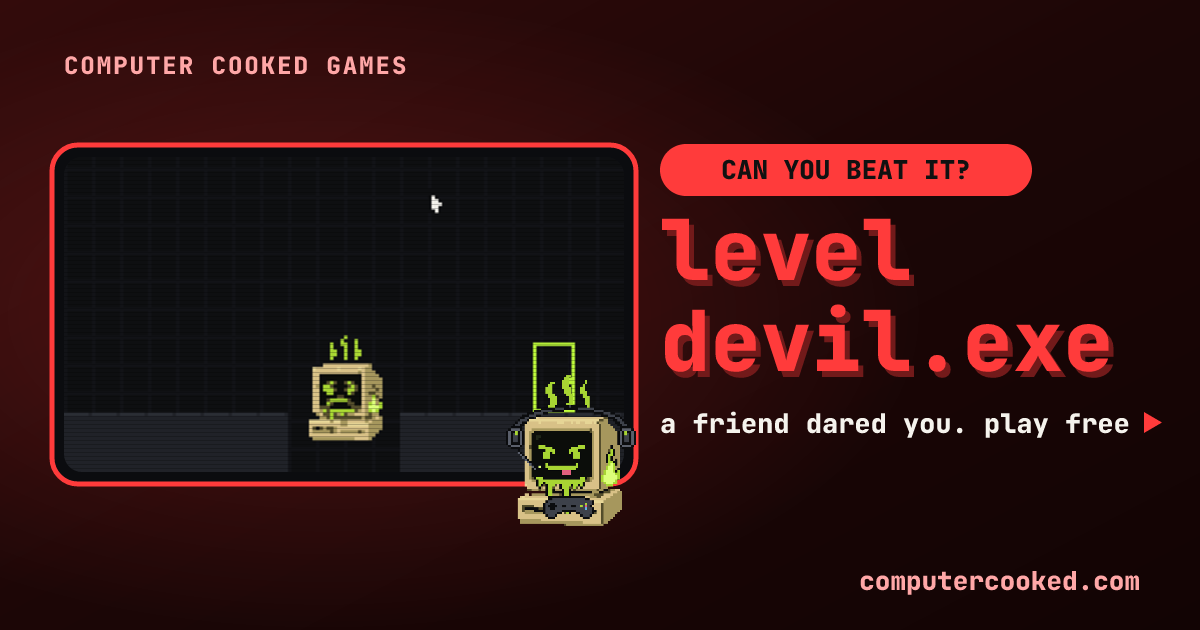
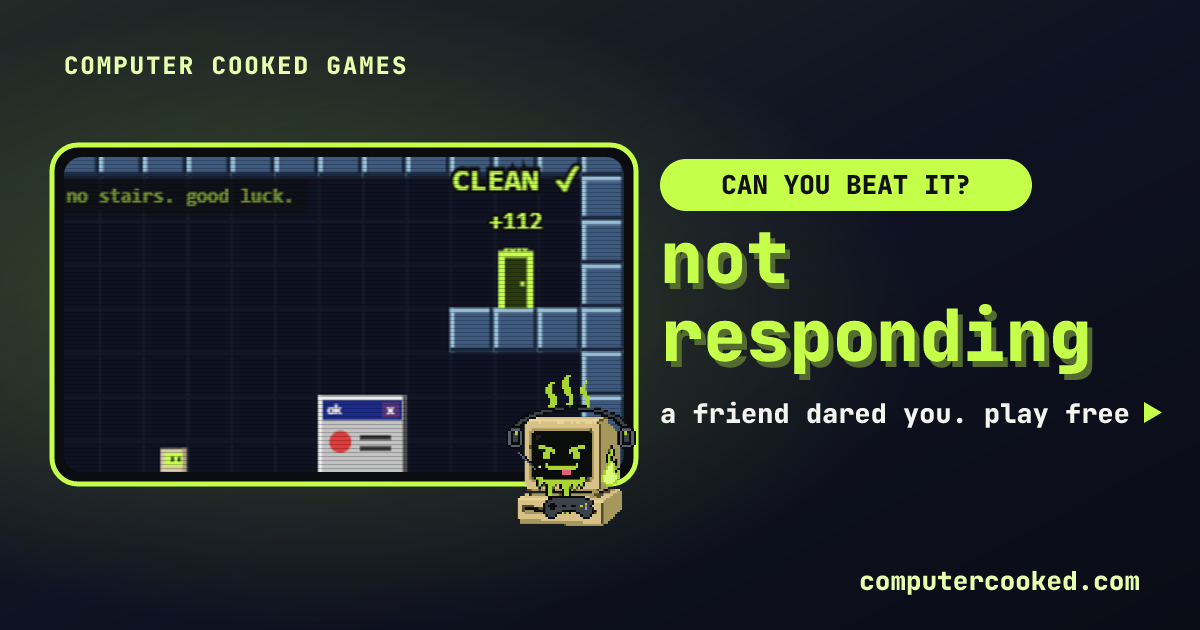
Round 5 batch 3: not responding (was level devil.exe) 2.5, elevator 1.6.1, ant farm 1.5.1, keyboard escape 1.7; rename on every page label, new cover, thumb and OG cards

diff --git a/games/level-devil-exe/index.html b/games/level-devil-exe/index.html
@@ -4,16 +4,16 @@
   <meta charset="utf-8">
   <meta name="viewport" content="width=device-width, initial-scale=1, viewport-fit=cover">
   <!-- Generated by scripts/add-game.ps1 from games/level-devil-exe/play/entry.json. Edit the template, not this file. -->
-  <title>level devil.exe — play free on Computer Cooked Games</title>
-  <meta name="description" content="level devil.exe: a troll platformer where the floor, the exit, the cursor and the taskbar all want you dead. 36 levels, a blue screen every death, infinite retries. free, plays in your browser and on your phone.">
+  <title>not responding — play free on Computer Cooked Games</title>
+  <meta name="description" content="not responding: a troll platformer that stopped responding: the floor, the exit, the cursor and the taskbar all want you dead. 36 levels, a blue screen every death, infinite retries. free, plays in your browser and on your phone.">
   <link rel="canonical" href="https://computercooked.com/games/level-devil-exe/">
   <meta name="theme-color" content="#101114">
   <meta name="color-scheme" content="dark">
 
   <meta property="og:type" content="website">
   <meta property="og:site_name" content="Computer Cooked">
-  <meta property="og:title" content="level devil.exe — Computer Cooked Games">
-  <meta property="og:description" content="a troll platformer where the floor, the exit, the cursor and the taskbar all want you dead. 36 levels, a blue screen every death, infinite retries.">
+  <meta property="og:title" content="not responding — Computer Cooked Games">
+  <meta property="og:description" content="a troll platformer that stopped responding: the floor, the exit, the cursor and the taskbar all want you dead. 36 levels, a blue screen every death, infinite retries.">
   <meta property="og:url" content="https://computercooked.com/games/level-devil-exe/">
   <meta property="og:image" content="https://computercooked.com/games/level-devil-exe/og.png?v=5">
   <meta property="og:image:width" content="1200">
@@ -25,8 +25,8 @@
   <meta property="og:video:height" content="180">
   <meta name="twitter:card" content="summary_large_image">
   <meta name="twitter:site" content="@computercooked">
-  <meta name="twitter:title" content="level devil.exe — Computer Cooked Games">
-  <meta name="twitter:description" content="a troll platformer where the floor, the exit, the cursor and the taskbar all want you dead. 36 levels, a blue screen every death, infinite retries.">
+  <meta name="twitter:title" content="not responding — Computer Cooked Games">
+  <meta name="twitter:description" content="a troll platformer that stopped responding: the floor, the exit, the cursor and the taskbar all want you dead. 36 levels, a blue screen every death, infinite retries.">
   <meta name="twitter:image" content="https://computercooked.com/games/level-devil-exe/og.png?v=5">
 
   <link rel="icon" href="/favicon.ico" sizes="48x48">
@@ -48,18 +48,18 @@
     <div class="ad-slot" data-slot="player-top" aria-hidden="true"></div>
 
     <div class="player-layout">
-      <section class="player" id="player" aria-label="level devil.exe game" data-title="level devil.exe" data-url="https://computercooked.com/games/level-devil-exe/" data-version="2.5">
+      <section class="player" id="player" aria-label="not responding game" data-title="not responding" data-url="https://computercooked.com/games/level-devil-exe/" data-version="2.5">
         <div class="player-stage">
           <div class="stage-boot" aria-hidden="true">
             <span class="boot-logo"></span>
-            <span class="boot-text">booting level devil.exe<span class="boot-dots"></span></span>
+            <span class="boot-text">booting not responding<span class="boot-dots"></span></span>
             <span class="boot-bar"><span></span></span>
           </div>
-          <iframe id="game-frame" data-src="/games/level-devil-exe/play/" title="level devil.exe" allow="fullscreen; autoplay" loading="eager"></iframe><script>/* start the game once the page itself is done (r19, phone speed): after the load event and an idle moment (3 s at most), or at once when the player is touched or a key is pressed, or when the visitor tapped "tap to play" on the hub (cc-autostart). Starting it right after the first paint put the game's download, startup and title animation inside the page load on phones */(function(f){var d=0;function go(){if(!d){d=1;if(!f.src)f.src=f.dataset.src}}try{if(sessionStorage.getItem("cc-autostart")){go();return}}catch(e){}var p=f.parentNode||document;p.addEventListener("pointerdown",go,{once:true,passive:true});addEventListener("keydown",go,{once:true});function idle(){(window.requestIdleCallback||function(c){setTimeout(c,300)})(go,{timeout:3000})}if(document.readyState==="complete")idle();else addEventListener("load",idle);setTimeout(go,8000)})(document.getElementById("game-frame"))</script>
+          <iframe id="game-frame" data-src="/games/level-devil-exe/play/" title="not responding" allow="fullscreen; autoplay" loading="eager"></iframe><script>/* start the game once the page itself is done (r19, phone speed): after the load event and an idle moment (3 s at most), or at once when the player is touched or a key is pressed, or when the visitor tapped "tap to play" on the hub (cc-autostart). Starting it right after the first paint put the game's download, startup and title animation inside the page load on phones */(function(f){var d=0;function go(){if(!d){d=1;if(!f.src)f.src=f.dataset.src}}try{if(sessionStorage.getItem("cc-autostart")){go();return}}catch(e){}var p=f.parentNode||document;p.addEventListener("pointerdown",go,{once:true,passive:true});addEventListener("keydown",go,{once:true});function idle(){(window.requestIdleCallback||function(c){setTimeout(c,300)})(go,{timeout:3000})}if(document.readyState==="complete")idle();else addEventListener("load",idle);setTimeout(go,8000)})(document.getElementById("game-frame"))</script>
         </div>
 
         <div class="player-bar">
-          <h1 class="player-title">level devil.exe</h1>
+          <h1 class="player-title">not responding</h1>
           <button class="tool" id="btn-restart" type="button" aria-label="restart">
             <svg viewBox="0 0 24 24" aria-hidden="true"><path d="M4 12a8 8 0 1 0 2.4-5.7M4 4v5h5" fill="none" stroke="currentColor" stroke-width="2.4"/></svg>
             <span class="tool-text">restart</span>
@@ -83,8 +83,8 @@
         <div class="ad-slot" data-slot="player-side" aria-hidden="true"></div>
         <div class="player-panel" id="cc-panel" data-game="level-devil-exe"></div>
         <div class="about-card" data-how-to>
-          <h2>level devil.exe</h2>
-          <p>a troll platformer where the floor, the exit, the cursor and the taskbar all want you dead. 36 levels, a blue screen every death, infinite retries.</p>
+          <h2>not responding</h2>
+          <p>a troll platformer that stopped responding: the floor, the exit, the cursor and the taskbar all want you dead. 36 levels, a blue screen every death, infinite retries.</p>
           <p><b>controls:</b> ←→ / a d move &#183; ↑ / w / space jump &#183; r restart &#183; esc levels &#183; touch buttons on mobile</p>
         </div>
       </aside>

diff --git a/index.html b/index.html
@@ -91,7 +91,7 @@
         <div class="dock-row">
       <ul class="desk-icons" id="desk-icons" role="list">
         <li><a class="desk-icon" href="/games/crash/?ref=desk" data-slug="crash"><span class="ico"><img src="/games/crash/cover.png" alt="" width="96" height="60" loading="lazy"></span><span class="lbl">crash.exe</span></a></li>
-        <li><a class="desk-icon" href="/games/level-devil-exe/?ref=desk" data-slug="level-devil-exe"><span class="ico"><img src="/games/level-devil-exe/cover.png" alt="" width="96" height="60" loading="lazy"></span><span class="lbl">level devil.exe</span></a></li>
+        <li><a class="desk-icon" href="/games/level-devil-exe/?ref=desk" data-slug="level-devil-exe"><span class="ico"><img src="/games/level-devil-exe/cover.png" alt="" width="96" height="60" loading="lazy"></span><span class="lbl">not responding</span></a></li>
         <li><a class="desk-icon" href="/games/one-percent-popup/?ref=desk" data-slug="one-percent-popup"><span class="ico"><img src="/games/one-percent-popup/cover.png" alt="" width="96" height="60" loading="lazy"></span><span class="lbl">1% pop-up.exe</span></a></li>
       </ul>
           <button type="button" class="desk-icon desk-dice" id="desk-dice" hidden><span class="ico" aria-hidden="true"><b>?</b></span><span class="lbl">surprise me.exe</span></button>

diff --git a/src/thumbs.js b/src/thumbs.js
@@ -1,2 +1,2 @@
 // Generated by scripts/make-thumbs.py: games with a small 192x120 card thumbnail (assets/thumbs/<slug>.webp).
-export const THUMBS = new Set(["desktop-takeover", "prove-youre-human", "smol-brains", "thin-ice"]);
+export const THUMBS = new Set(["desktop-takeover", "level-devil-exe", "prove-youre-human", "smol-brains", "thin-ice"]);
